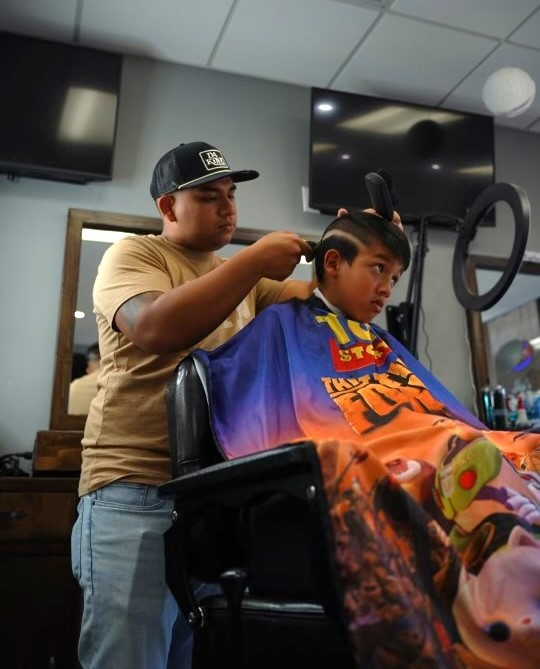
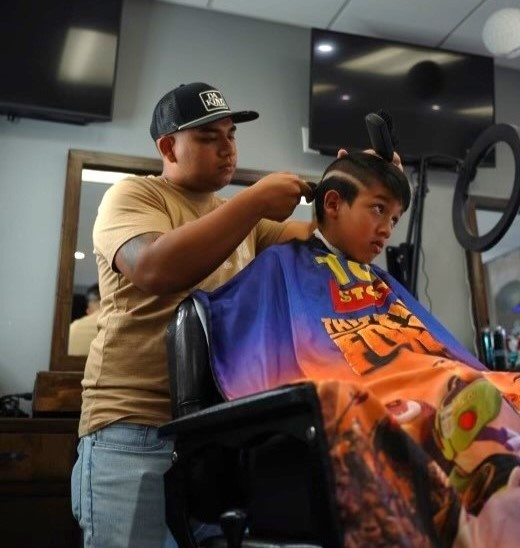
Optimized image assets

diff --git a/index.html b/index.html
@@ -34,7 +34,7 @@
 		<ol aria-label="Image Carousel">
 			<li class="carousel-item fade">
 				<div role="status" class="slide-index">1 / 8</div>
-				<img src="assets/clippers.jpg" 
+				<img src="assets/clippers.webp" 
 					alt="Close-up view of electric razors organized in a row. 
 						Razor blade and pair of scissors out of focus in the background."
 					loading="eager">
@@ -42,7 +42,7 @@
 			  
 			<li class="carousel-item fade">
 				<div role="status" class="slide-index">2 / 8</div>
-				<img src="assets/chairs.jpg" 
+				<img src="assets/chairs.webp" 
 					alt="A pair of black leather chairs face away from a barber's counter top. 
 						A towel is draped over the armrest of the first chair."
 					loading="lazy"
@@ -51,7 +51,7 @@
 	
 			<li class="carousel-item fade">
 				<div role="status" class="slide-index">3 / 8</div>
-				<img src="assets/silvia.jpg" 
+				<img src="assets/silvia.webp" 
 					alt="A barber uses her electric razor to carefully trim the sides of a man's moustache."
 					loading="lazy"
 					decoding="async">
@@ -59,7 +59,7 @@
 	
 			<li class="carousel-item fade">
 				<div role="status" class="slide-index">4 / 8</div>
-				<img src="assets/cody.jpg" 
+				<img src="assets/cody.webp" 
 					alt="Viewed from a reflection in a mirror, a boy sits in a chair while the barber gives a haircut."
 					loading="lazy"
 					decoding="async">
@@ -75,7 +75,7 @@
 	
 			<li class="carousel-item fade">
 				<div role="status" class="slide-index">6 / 8</div>
-				<img src="assets/beard-trim.jpg" 
+				<img src="assets/beard-trim.webp" 
 					alt="A man leans his head back as the barber gently applies shaving cream to his face."
 					loading="lazy"
 					decoding="async">
@@ -83,7 +83,7 @@
 	
 			<li class="carousel-item fade">
 				<div role="status" class="slide-index">7 / 8</div>
-				<img src="assets/clippers2.jpg" 
+				<img src="assets/clippers2.webp" 
 					alt="Three electric razors are organized in a row against a dark background. 
 						Next to them lie a pair of scissors."
 					loading="lazy"
@@ -92,7 +92,7 @@
 	
 			<li class="carousel-item fade">
 				<div role="status" class="slide-index">8 / 8</div>
-				<img src="assets/front-logo.jpg" 
+				<img src="assets/front-logo.webp" 
 					alt="The outside window of the shop with a logo decal on the glass. 
 						The logo is a barber's pole with eagle wings on either side."
 					loading="lazy"
